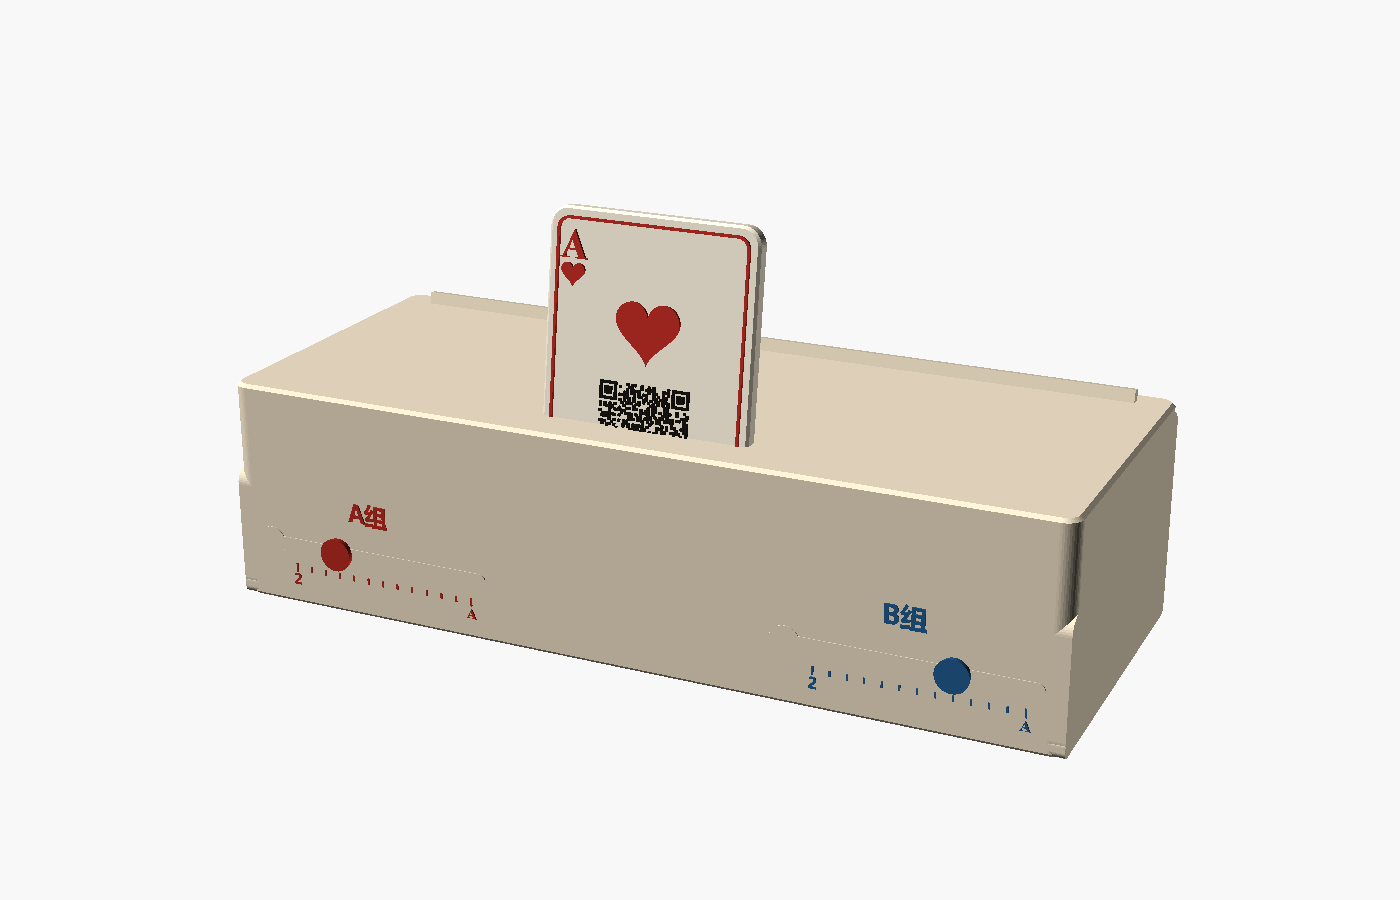
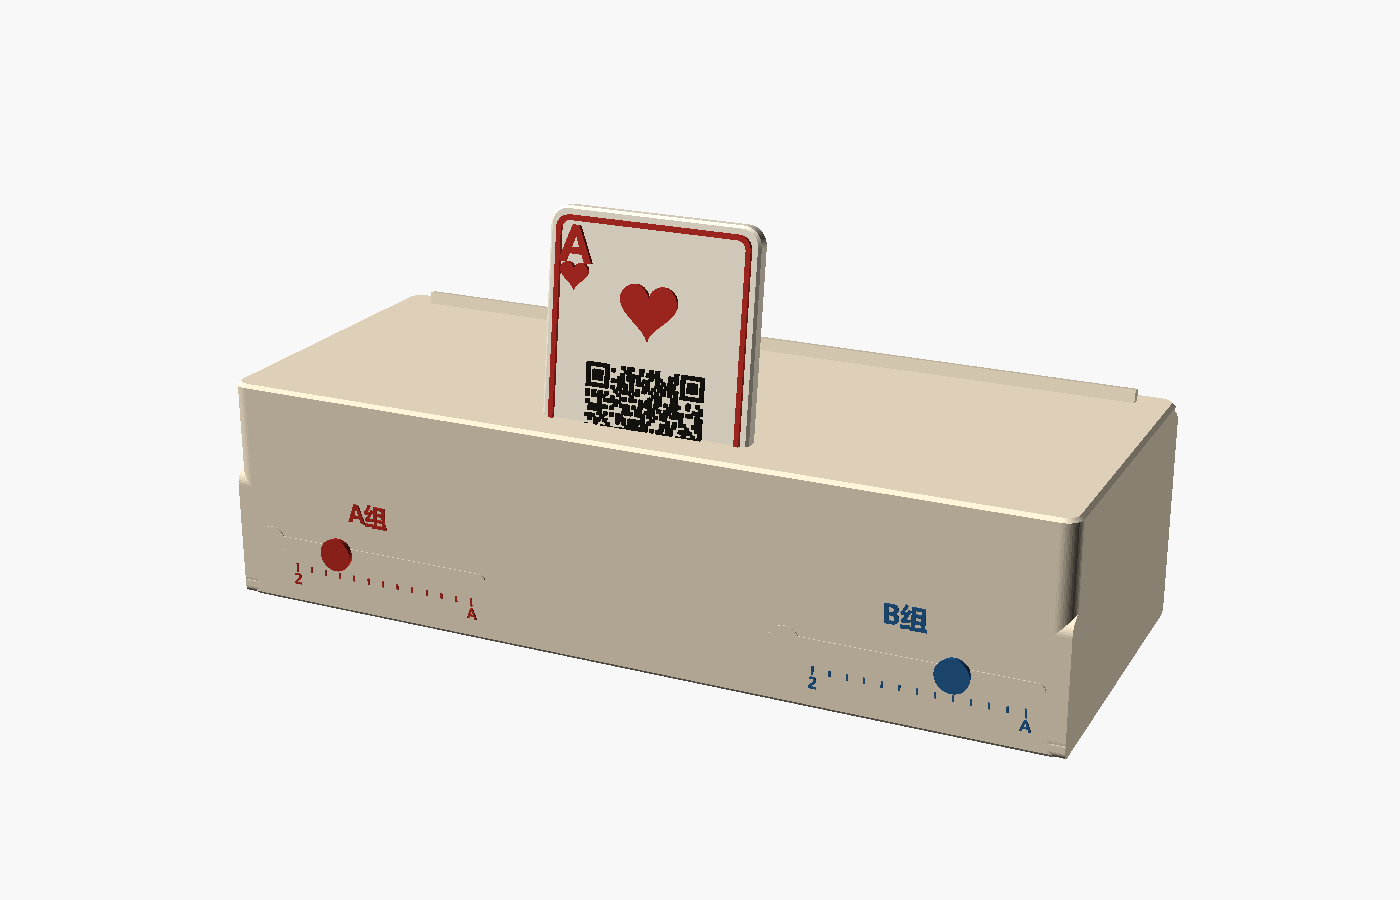
fix: strengthen Heart A relief for 0.4 mm nozzles

Changed region(s): [[0.3993, 0.3111, 0.5221, 0.4978], [0.3993, 0.2489, 0.43, 0.3111]]

diff --git a/README.md b/README.md
@@ -11,7 +11,8 @@
 - 主体尺寸：`210 × 84 × 53 mm`
 - 三排真实扑克牌槽：`2.4 mm` 宽、`10 mm` 深、后仰 `12°`
 - 连续阶梯主体：相邻层重叠连接，不留会掉牌的大缝
-- 红桃 A：`52 × 78 × 4.0 mm`，轻倒角厚卡体，带红色浮雕和真实二维码浮雕
+- 红桃 A：`52 × 78 × 4.0 mm` 厚卡体，浮雕后最大厚度约 `4.85 mm`
+- 0.4 mm 喷嘴友好浮雕：`1.2 mm` 边框、`0.9 mm` 浮雕高度、加粗 A/♥ 与简化角标
 - 左右各一条横向计级滑轨，带 13 个刻度和 `2 / A` 端点标记
 - 两个相同的独立滑块，平放打印，无需支撑
 - 滑轨采用“窄开口 + 隐藏宽腔 + 端部装入口”，滑块装入后不会从普通位置直接掉出
@@ -30,7 +31,7 @@
 python .\tools\prepare_qr.py
 ```
 
-脚本会生成 `qr_data.scad`。当前二维码为 `43 × 43`，在 26 mm 宽度下单模块约 `0.605 mm`。
+脚本会生成 `qr_data.scad`。当前二维码为 `43 × 43`，放大到 `34 mm`；基础单模块约 `0.79 mm`，黑色模块再外扩 `0.10 mm`，更适合 0.4 mm 喷嘴成形。
 
 > 几何可打印不等于实体一定容易扫描。最终交付前仍需用实际耗材打印红桃 A，并用手机测试扫码。
 
@@ -86,6 +87,8 @@ python .\tools\prepare_qr.py
 - 顶/底层：`5~6`
 - 填充：`15~20%`
 - 外墙：`40~50 mm/s`
+- 红桃 A 小轮廓/外墙：建议降到 `25~30 mm/s`
+- 墙生成器：优先使用 Arachne；没有该选项时开启“检测薄壁”
 - 主体支撑：通常不需要；隐藏滑轨顶部只有约 4 mm 短桥接
 - 主体摆放：底面朝下
 - 红桃 A：浮雕朝上
@@ -111,7 +114,7 @@ python .\tools\prepare_qr.py
 
 ```scad
 font_main  = "Microsoft YaHei:style=Bold";
-font_latin = "Times New Roman:style=Bold";
+font_latin = "Arial:style=Bold";
 ```
 
 如果 OpenSCAD 出现缺字，可在 `Help -> Font List` 中换成系统已有字体。
